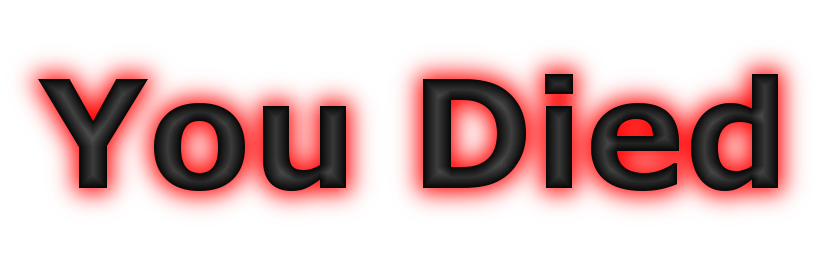
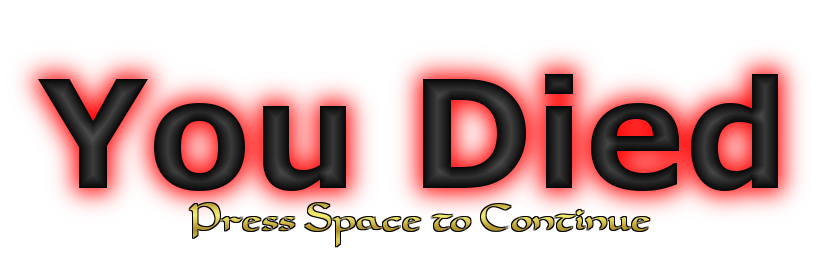
main menu progess

Changed region(s): [[0.2116, 0.7812, 0.786, 0.9688]]

diff --git a/js/game.js b/js/game.js
@@ -1,54 +1,8 @@
-var game = new Phaser.Game(window.innerWidth, window.innerHeight - 1, Phaser.AUTO, 'game', { preload: preload, create: create, update: update });
-var background;
-var backgroundSpeed = 0;
-var paused;
-var player;
-var enemies;
-var bullets;
-var upgrades;
-var explosions = [];
-var sounds = {};
-var isPaused = false;
-var score = 0;
-var scoreText;
-var diedImage;
+Shift.Game = function(game) {
 
-function preload() {
-  // images
-  game.load.image('background', 'assets/image/background.png');
-  game.load.image('bulletplayer', 'assets/image/bulletplayer.png');
-  game.load.image('bulletenemy', 'assets/image/bulletenemy.png');
-  game.load.image('enemy1', 'assets/image/enemy1.png');
-  game.load.image('enemy2', 'assets/image/enemy2.png');
-  game.load.image('enemy3', 'assets/image/enemy3.png');
-  game.load.image('enemy4', 'assets/image/enemy4.png');
-  game.load.image('enemy5', 'assets/image/enemy5.png');
-  game.load.image('enemy6', 'assets/image/enemy6.png');
-  game.load.image('enemy7', 'assets/image/enemy7.png');
-  game.load.image('enemy8', 'assets/image/enemy8.png');
-  game.load.image('enemy9', 'assets/image/enemy9.png');
-  game.load.image('explosion1', 'assets/image/explosion1.png');
-  game.load.image('paused', 'assets/image/paused.png');
-  game.load.image('player1', 'assets/image/player1.png');
-  game.load.image('player2', 'assets/image/player2.png');
-  game.load.image('player3', 'assets/image/player3.png');
-  game.load.image('player4', 'assets/image/player4.png');
-  game.load.image('player5', 'assets/image/player5.png');
-  game.load.image('player6', 'assets/image/player6.png');
-  game.load.image('player7', 'assets/image/player7.png');
-  game.load.image('player8', 'assets/image/player8.png');
-  game.load.image('player9', 'assets/image/player9.png');
-  game.load.image('upgradebullet', 'assets/image/upgradebullet.png');
-  game.load.image('upgradeplayer', 'assets/image/upgradeplayer.png');
-  game.load.image('youdied', 'assets/image/youdied.png');
+};
 
-  // audio
-  game.load.audio('explode1', 'assets/sound/explode1.wav');
-  game.load.audio('fire1', 'assets/sound/fire1.wav');
-  game.load.audio('fire2', 'assets/sound/fire2.wav');
-}
-
-function create() {
+Shift.Game.prototype.create = function() {
   sounds.fire1 = game.add.audio('fire1');
   sounds.fire2 = game.add.audio('fire2');
   sounds.explode1 = game.add.audio('explode1');
@@ -99,10 +53,18 @@ function create() {
     }
   });
 
-  //game.paused = true;
+  game.input.keyboard.addKey(Phaser.Keyboard.SPACEBAR).onDown.add(function(key) {
+    if (player.corners != 0) {
+      return;
+    }
+
+    console.log("test");
+
+    game.state.start('MainMenu');
+  });
 }
 
-function update() {
+Shift.Game.prototype.update = function() {
   background.tilePosition.x -= backgroundSpeed;
 
   player.update();
@@ -209,6 +171,15 @@ function createEnemies() {
   }
 }
 
+function createUpgradeEntity(upgrade) {
+  game.physics.enable(upgrade, Phaser.Physics.ARCADE);
+  upgrade.anchor.setTo(0.5, 0.5);
+  upgrade.body.velocity.x = Math.round(Math.random() * 10);
+  upgrade.body.velocity.y = Math.round(Math.random() * 10);
+
+  upgrades.add(upgrade);
+}
+
 function createUpgrade(x, y, chance) {
   if (Math.round(Math.random() * 100) <= chance) {
     var upgrade;
@@ -217,18 +188,24 @@ function createUpgrade(x, y, chance) {
       // 50% chance for size upgrade
       upgrade = game.add.sprite(x, y, 'upgradeplayer');
       upgrade.upgradeType = "player";
-    } else {
+
+      createUpgradeEntity(upgrade);
+    }
+
+    if (Math.round(Math.random() * 100) <= 50) {
       // 50% chance for fire rate upgrade
       upgrade = game.add.sprite(x, y, 'upgradebullet');
       upgrade.upgradeType = "bullet";
+
+      createUpgradeEntity(upgrade);
     }
 
-    game.physics.enable(upgrade, Phaser.Physics.ARCADE);
-    upgrade.anchor.setTo(0.5, 0.5);
-    upgrade.body.velocity.x = Math.round(Math.random() * 10);
-    upgrade.body.velocity.y = Math.round(Math.random() * 10);
+    if (Math.round(Math.random() * 100) <= 10) {
+      upgrade = game.add.sprite(x, y, 'upgradeinsanity');
+      upgrade.upgradeType = "insanity";
 
-    upgrades.add(upgrade);
+      createUpgradeEntity(upgrade);
+    }
   }
 }
 
@@ -285,8 +262,19 @@ function playerHitEnemy(enemy) {
 function playerHitUpgrade(upgrade) {
   if (upgrade.upgradeType == "player") {
     player.addCorner();
-  } else if (upgrade.upgradeType == "bullet") {
+  }
+
+  if (upgrade.upgradeType == "bullet") {
     player.fireRate -= 2;
+  }
+
+  if (upgrade.upgradeType == "insanity") {
+    var oldRate = player.fireRate - 1;
+    setTimeout(function() {
+      player.fireRate = oldRate;
+    }, 5000);
+
+    player.fireRate = 0;
   }
 
   upgrade.kill();

diff --git a/js/boot.js b/js/boot.js
@@ -1,0 +1,64 @@
+var Shift = {
+
+};
+
+var background;
+var backgroundSpeed = 0;
+var paused;
+var player;
+var enemies;
+var bullets;
+var upgrades;
+var explosions = [];
+var sounds = {};
+var isPaused = false;
+var score = 0;
+var scoreText;
+var diedImage;
+var logo;
+
+Shift.Boot = function(game) {};
+
+Shift.Boot.prototype.preload = function() {
+  // images
+  game.load.image('background', 'assets/image/background.png');
+  game.load.image('bulletplayer', 'assets/image/bulletplayer.png');
+  game.load.image('bulletenemy', 'assets/image/bulletenemy.png');
+  game.load.image('enemy1', 'assets/image/enemy1.png');
+  game.load.image('enemy2', 'assets/image/enemy2.png');
+  game.load.image('enemy3', 'assets/image/enemy3.png');
+  game.load.image('enemy4', 'assets/image/enemy4.png');
+  game.load.image('enemy5', 'assets/image/enemy5.png');
+  game.load.image('enemy6', 'assets/image/enemy6.png');
+  game.load.image('enemy7', 'assets/image/enemy7.png');
+  game.load.image('enemy8', 'assets/image/enemy8.png');
+  game.load.image('enemy9', 'assets/image/enemy9.png');
+  game.load.image('explosion1', 'assets/image/explosion1.png');
+  game.load.image('highscores', 'assets/image/highscores.png');
+  game.load.image('logo', 'assets/image/logo.png');
+  game.load.image('paused', 'assets/image/paused.png');
+  game.load.image('player1', 'assets/image/player1.png');
+  game.load.image('player2', 'assets/image/player2.png');
+  game.load.image('player3', 'assets/image/player3.png');
+  game.load.image('player4', 'assets/image/player4.png');
+  game.load.image('player5', 'assets/image/player5.png');
+  game.load.image('player6', 'assets/image/player6.png');
+  game.load.image('player7', 'assets/image/player7.png');
+  game.load.image('player8', 'assets/image/player8.png');
+  game.load.image('player9', 'assets/image/player9.png');
+  game.load.image('start', 'assets/image/start.png');
+  game.load.image('tutorial', 'assets/image/tutorial.png');
+  game.load.image('upgradebullet', 'assets/image/upgradebullet.png');
+  game.load.image('upgradeinsanity', 'assets/image/upgradeinsanity.png');
+  game.load.image('upgradeplayer', 'assets/image/upgradeplayer.png');
+  game.load.image('youdied', 'assets/image/youdied.png');
+
+  // audio
+  game.load.audio('explode1', 'assets/sound/explode1.wav');
+  game.load.audio('fire1', 'assets/sound/fire1.wav');
+  game.load.audio('fire2', 'assets/sound/fire2.wav');
+}
+
+Shift.Boot.prototype.create = function() {
+  game.state.start('MainMenu');
+}

diff --git a/js/mainmenu.js b/js/mainmenu.js
@@ -1,0 +1,45 @@
+Shift.MainMenu = function(game) {
+
+};
+
+Shift.MainMenu.prototype.create = function() {
+  background = game.add.tileSprite(0, 0, game._width, game._height, 'background');
+
+  logo = game.add.sprite(0, 0, 'logo');
+  logo.position.x = (game._width / 2) - (logo.width / 2);
+  logo.position.y = (game._height / 4) - (logo.height / 2);
+
+  var start = game.add.sprite(0, 0, 'start');
+  start.position.x = (game._width / 2) - (start.width / 2);
+  start.position.y = (game._height / 4) - (logo.height / 2) + 200;
+  start.inputEnabled = true;
+  start.events.onInputDown.add(startlistener, this);
+
+  var tutorial = game.add.sprite(0, 0, 'tutorial');
+  tutorial.position.x = (game._width / 2) - (tutorial.width / 2);
+  tutorial.position.y = (game._height / 4) - (logo.height / 2) + 300;
+  tutorial.inputEnabled = true;
+  tutorial.events.onInputDown.add(tutoriallistener, this);
+
+  var highscores = game.add.sprite(0, 0, 'highscores');
+  highscores.position.x = (game._width / 2) - (highscores.width / 2);
+  highscores.position.y = (game._height / 4) - (logo.height / 2) + 400;
+  highscores.inputEnabled = true;
+  highscores.events.onInputDown.add(highscoreslistener, this);
+}
+
+Shift.MainMenu.prototype.update = function() {
+  background.tilePosition.x -= 1;
+}
+
+function startlistener() {
+  game.state.start('Game');
+}
+
+function tutoriallistener() {
+  game.state.start('Tutorial');
+}
+
+function highscoreslistener() {
+  game.state.start('Highscores');
+}

diff --git a/index.html b/index.html
@@ -5,8 +5,11 @@
   <link rel="stylesheet" href="css/stylesheet.css" type="text/css" charset="utf-8" />
 
   <script src="phaser.min.js"></script>
+  <script src="js/boot.js"></script>
   <script src="js/player.js"></script>
   <script src="js/game.js"></script>
+  <script src="js/mainmenu.js"></script>
+  <script src="js/init.js"></script>
 </head>
 <body>
   <div id="game"></div>

diff --git a/js/init.js b/js/init.js
@@ -1,0 +1,6 @@
+var game = new Phaser.Game(window.innerWidth, window.innerHeight - 1, Phaser.AUTO, 'game');
+game.state.add('Boot', Shift.Boot);
+game.state.add('MainMenu', Shift.MainMenu);
+game.state.add('Game', Shift.Game);
+
+game.state.start('Boot');
